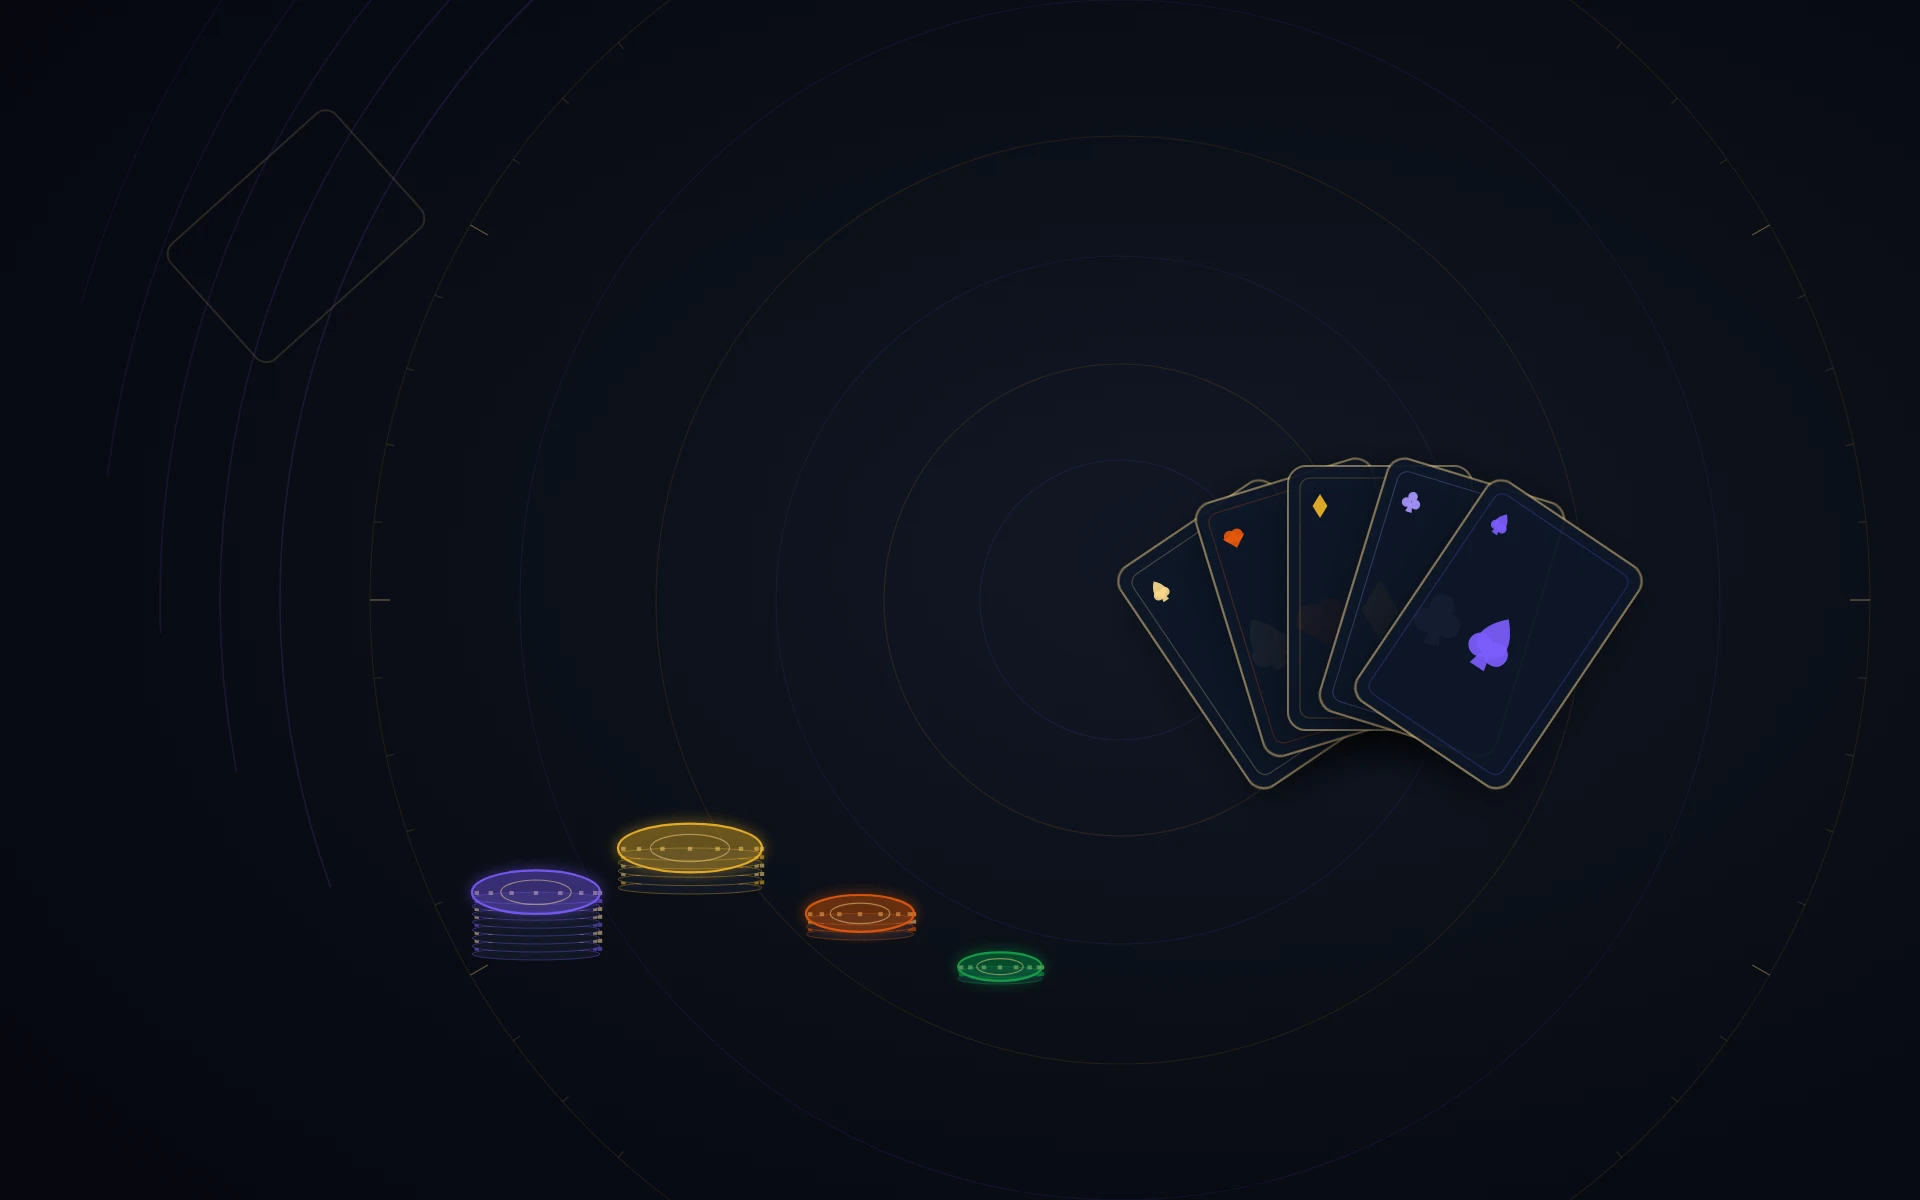
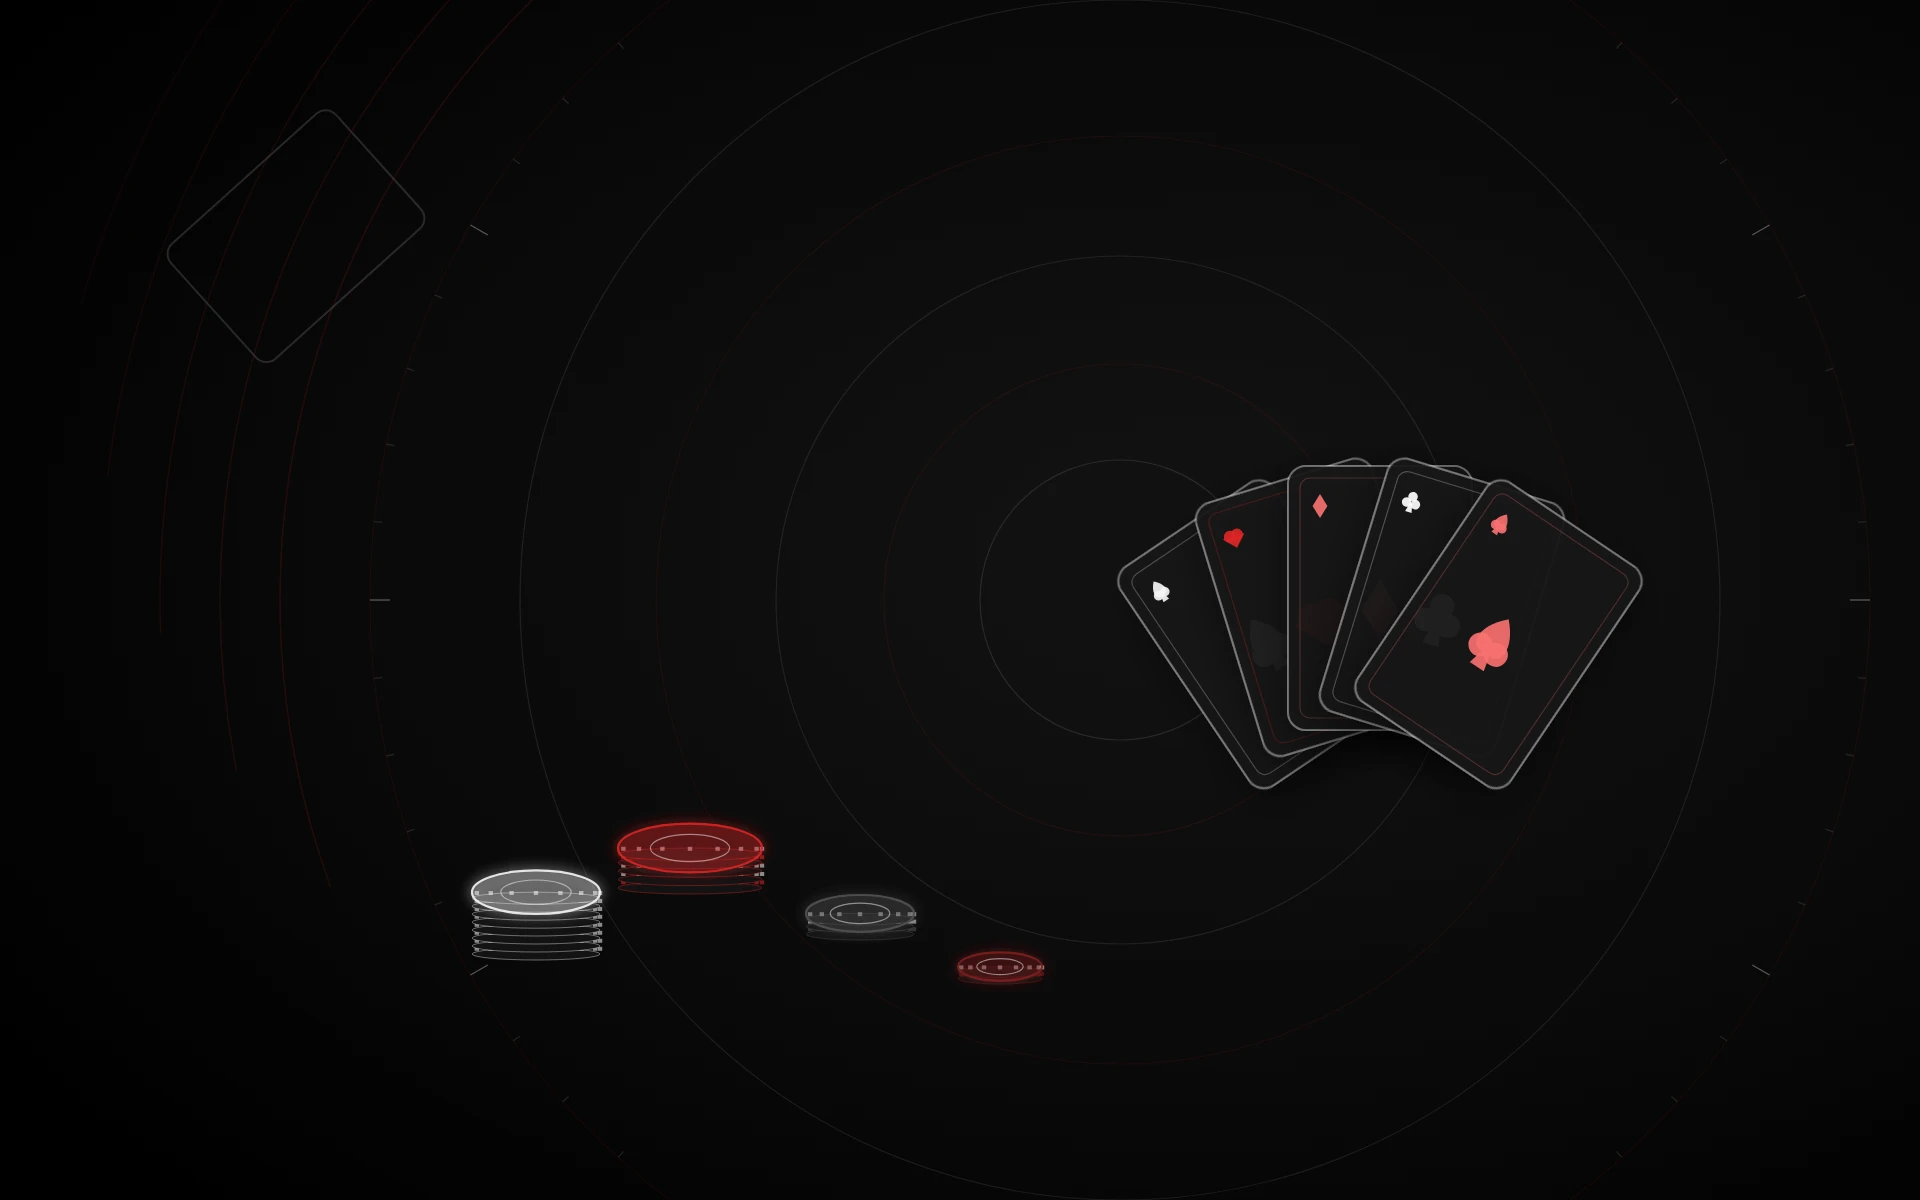
Re-skin to a classic black/white/red poker palette
Replaced the gold/violet dark theme with true black backgrounds, white
text, and red as the single accent (brand, CTAs, raise action, active
states). Range-chart actions now read as an intensity gradient: red
(raise) to white (call) to dark gray (fold). Poker table felt switched
from green to charcoal/black to match. Regenerated the hero illustration
in the new palette — red and white poker chips, red/white suit marks on
dark cards — so it no longer clashes with the rest of the UI.

diff --git a/src/index.css b/src/index.css
@@ -2,46 +2,47 @@
 @import "tailwindcss";
 
 @theme {
-  /* Backgrounds — near-black navy layers, OLED-friendly */
-  --color-base: #0a0e16;
-  --color-surface: #121826;
-  --color-surface-2: #1a2233;
-  --color-surface-3: #232c40;
-  --color-border: #2a3446;
-  --color-border-strong: #3a4660;
+  /* Backgrounds — true neutral black layers, no color tint */
+  --color-base: #0a0a0a;
+  --color-surface: #131313;
+  --color-surface-2: #1c1c1c;
+  --color-surface-3: #262626;
+  --color-border: #2b2b2b;
+  --color-border-strong: #404040;
 
   /* Text */
-  --color-ink: #f4f7fb;
-  --color-ink-muted: #a9b4c8;
-  --color-ink-faint: #6b7688;
+  --color-ink: #fafafa;
+  --color-ink-muted: #a3a3a3;
+  --color-ink-faint: #6b6b6b;
 
-  /* Brand */
-  --color-gold: #f0b429;
-  --color-gold-soft: #fbd88a;
-  --color-violet: #7c5cfc;
-  --color-violet-soft: #a996ff;
+  /* Brand — red is the single accent, everything else is black/white/gray */
+  --color-gold: #dc2626;
+  --color-gold-soft: #ef4444;
+  --color-violet: #d4d4d4;
+  --color-violet-soft: #f5f5f5;
 
-  /* Semantic action colors (range trainer) */
-  --color-raise: #e8590c;
-  --color-raise-soft: #ff8a4c;
-  --color-call: #16a34a;
-  --color-call-soft: #4ade80;
-  --color-fold: #64748b;
-  --color-fold-soft: #94a3b8;
-  --color-mixed: #7c5cfc;
+  /* Semantic action colors (range trainer) — an intensity gradient from
+     bold red (raise) through white (call) to receding dark gray (fold) */
+  --color-raise: #dc2626;
+  --color-raise-soft: #f87171;
+  --color-call: #f5f5f5;
+  --color-call-soft: #ffffff;
+  --color-fold: #404040;
+  --color-fold-soft: #737373;
+  --color-mixed: #a3a3a3;
 
   /* Feedback */
-  --color-success: #22c55e;
-  --color-error: #f43f5e;
-  --color-warning: #f0b429;
+  --color-success: #f5f5f5;
+  --color-error: #dc2626;
+  --color-warning: #dc2626;
 
   /* Fonts */
   --font-display: "Space Grotesk", "Inter", system-ui, sans-serif;
   --font-sans: "Inter", system-ui, sans-serif;
   --font-mono: "JetBrains Mono", ui-monospace, monospace;
 
-  --shadow-glow-gold: 0 0 24px rgba(240, 180, 41, 0.25);
-  --shadow-glow-violet: 0 0 24px rgba(124, 92, 252, 0.25);
+  --shadow-glow-gold: 0 0 24px rgba(220, 38, 38, 0.3);
+  --shadow-glow-violet: 0 0 24px rgba(255, 255, 255, 0.12);
 }
 
 @layer base {

diff --git a/src/components/trainer/PokerTable.tsx b/src/components/trainer/PokerTable.tsx
@@ -49,9 +49,9 @@ export function PokerTable({
       <div className="absolute inset-[6%] rounded-[50%] border-[10px] border-surface-3 shadow-2xl" />
       {/* felt */}
       <div
-        className="absolute inset-[8%] rounded-[50%] border border-gold/20"
+        className="absolute inset-[8%] rounded-[50%] border border-gold/25"
         style={{
-          background: 'radial-gradient(ellipse at 50% 40%, #16261f 0%, #0d1712 65%, #0a120d 100%)',
+          background: 'radial-gradient(ellipse at 50% 40%, #1a1a1a 0%, #101010 65%, #060606 100%)',
         }}
       />
 
